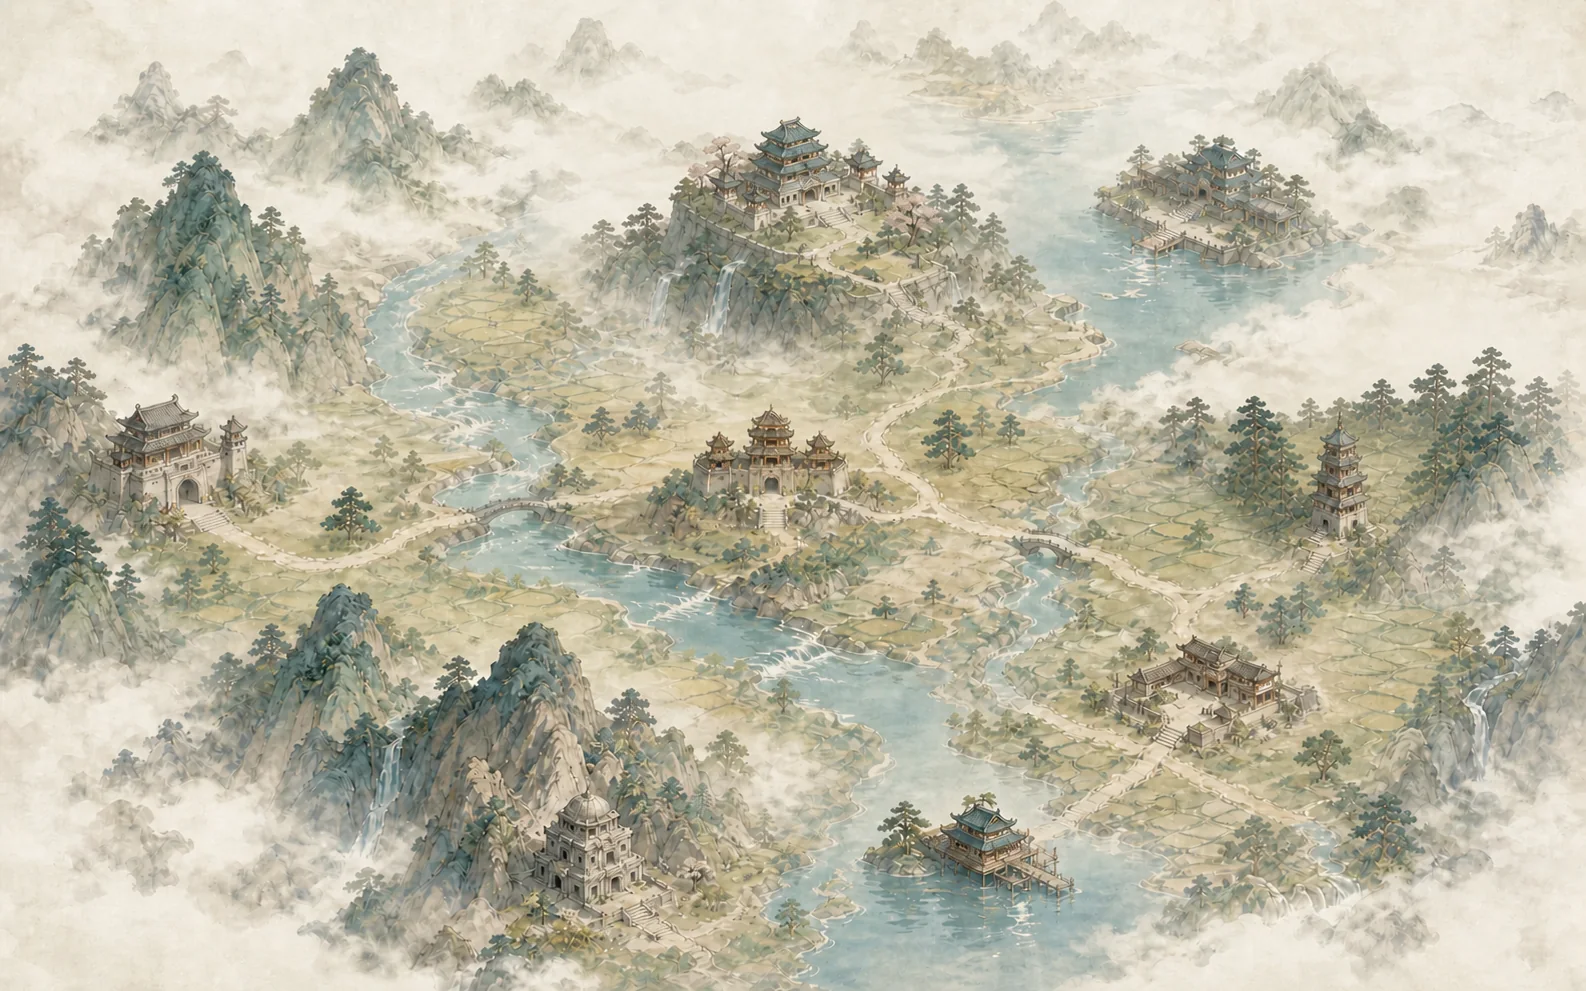
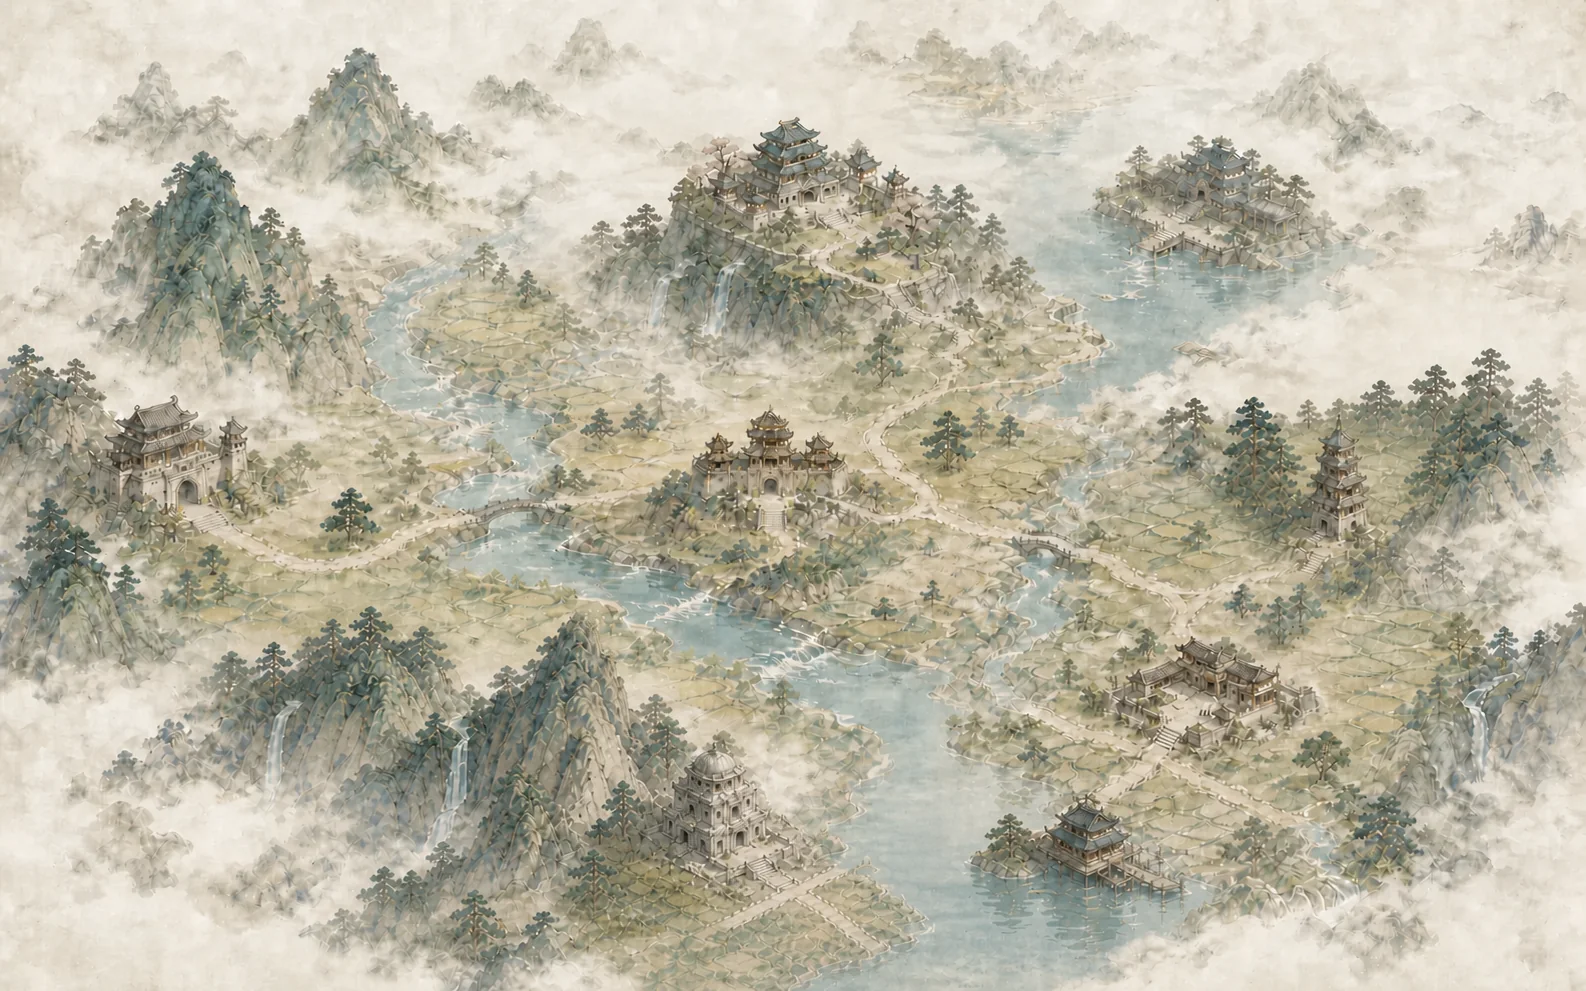
fix: align service atlas landmarks

diff --git a/apps/service-atlas/scripts/optimize-map.py b/apps/service-atlas/scripts/optimize-map.py
@@ -18,6 +18,10 @@ def parse_args() -> argparse.Namespace:
 
 def main() -> None:
     args = parse_args()
+    if args.width <= 0 or args.height <= 0:
+        raise SystemExit("optimized map width and height must be positive")
+    if abs(args.width / args.height - 1.6) > 0.01:
+        raise SystemExit("optimized map width and height must use an 8:5 aspect ratio")
     args.output.parent.mkdir(parents=True, exist_ok=True)
 
     with Image.open(args.input) as source:
